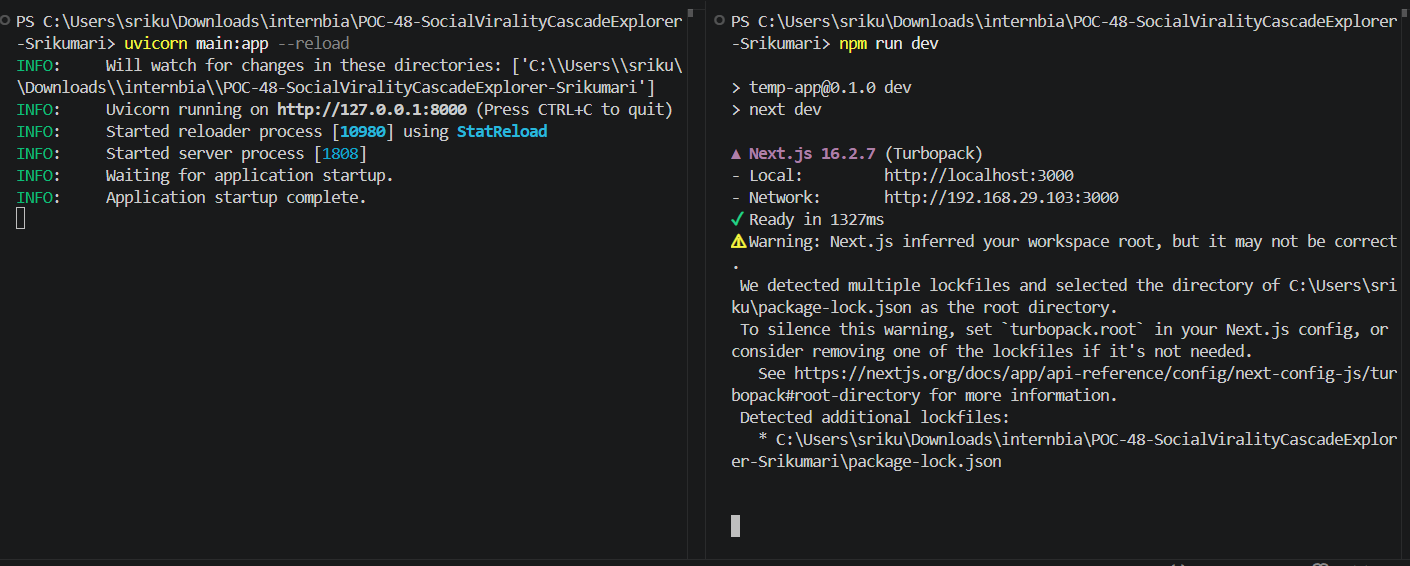
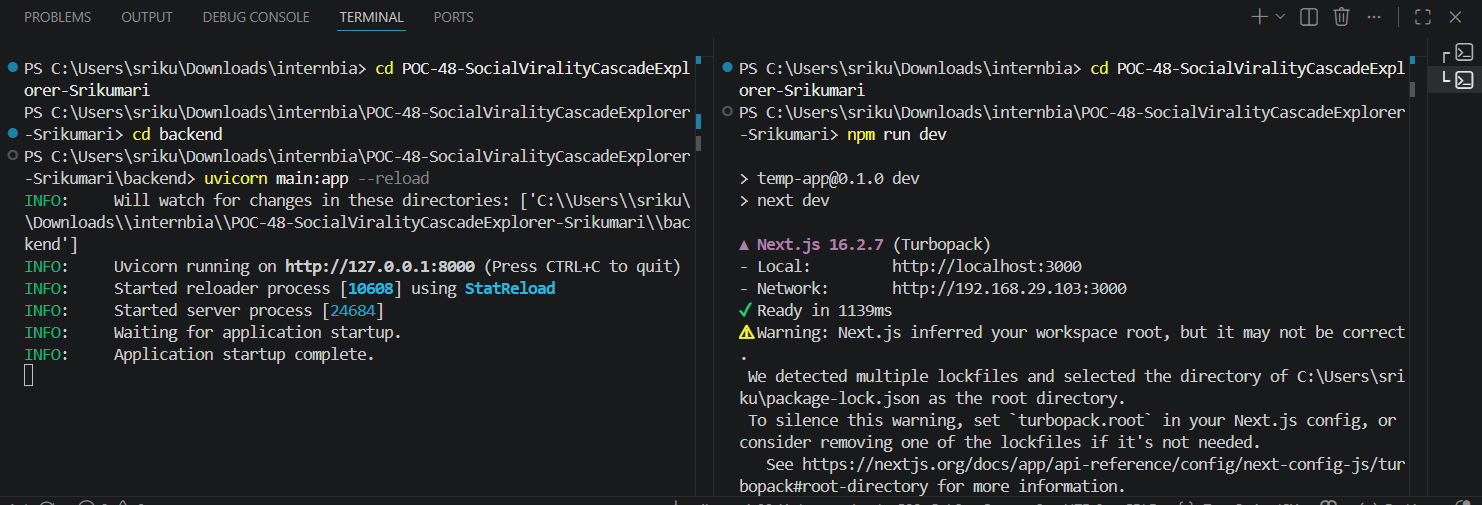
final commit

diff --git a/app/page.tsx b/app/page.tsx
@@ -11,7 +11,7 @@ import {
 } from "@xyflow/react";
 import "@xyflow/react/dist/style.css"; 
 
-import { Play, Pause, RotateCcw, Download, ShieldAlert, Layers, BarChart3, Info, Terminal, Radio } from "lucide-react";
+import { Play, Pause, RotateCcw, Download, ShieldAlert, BarChart3, Terminal, Radio } from "lucide-react";
 
 interface CascadeNode {
   id: string;
@@ -22,6 +22,7 @@ interface CascadeNode {
   reach: number;
   timestamp: number;
   parentId: string | null;
+  synthetic_label?: string;
 }
 
 interface LogMessage {
@@ -37,7 +38,6 @@ export default function SocialViralityCascadeExplorer() {
   const [currentTime, setCurrentTime] = useState<number>(0);
   const maxTime = 60;
   const [selectedPlatform, setSelectedPlatform] = useState<string>("All");
-  const [hoveredNode, setHoveredNode] = useState<CascadeNode | null>(null);
   const [logs, setLogs] = useState<LogMessage[]>([]);
   const logEndRef = useRef<HTMLDivElement>(null);
 
@@ -65,11 +65,15 @@ export default function SocialViralityCascadeExplorer() {
           setBackendNodes(data);
         }
       } catch (error) {
-        console.error("FastAPI connection offline. Launch via: uvicorn main:app --reload", error);
+        printBackendOfflineWarning();
       }
     }
     fetchCascadeData();
   }, [currentTime, selectedScenario]);
+
+  const printBackendOfflineWarning = () => {
+    console.error("FastAPI connection offline. Launch via: cd backend && python -m uvicorn main:app --reload");
+  };
 
   // Dynamic Scoreboard contextual parameters mapping
   const scoreboardMetadata = useMemo(() => {
@@ -80,7 +84,6 @@ export default function SocialViralityCascadeExplorer() {
         mainApp: "TikTok (67.7% attention share)"
       };
     }
-    // Default Scenario A metrics
     return {
       totalViews: "407,600",
       highestShares: "14,200 shares/min",
@@ -163,7 +166,7 @@ export default function SocialViralityCascadeExplorer() {
     });
   }, [backendNodes, selectedPlatform]);
 
-  // Custom Branded Platform Nodes
+  // Custom Branded Platform Nodes with Space-Optimized Floating Tooltips
   const flowNodes = useMemo<Node[]>(() => {
     return visibleRawNodes.map((node, index) => {
       const row = Math.floor(index / 3);
@@ -200,28 +203,45 @@ export default function SocialViralityCascadeExplorer() {
         id: node.id,
         data: { 
           label: (
-            <div 
-              className="flex flex-col items-center justify-center p-2 text-center relative"
-              onMouseEnter={() => setHoveredNode(node)}
-              onMouseLeave={() => setHoveredNode(null)}
-            >
+            <div className="flex flex-col items-center justify-center p-2 text-center relative group">
+              {/* 🛠️ BUILT-IN INTUITIVE FLOATING HOVER TOOLTIP */}
+              <div className="absolute bottom-full mb-2 left-1/2 -translate-x-1/2 hidden group-hover:flex flex-col w-56 p-2.5 bg-slate-950/95 backdrop-blur-md border border-slate-800 rounded shadow-2xl z-50 text-left text-[10px] font-mono font-normal text-slate-300 pointer-events-none transition-all duration-200">
+                <div className="flex justify-between items-center border-b border-slate-800/60 pb-1 mb-1">
+                  <span className="text-white font-bold truncate">{node.user}</span>
+                  <span className="text-[8px] uppercase tracking-wide text-slate-400">T+{node.timestamp}m</span>
+                </div>
+                <span className="text-[9px] text-slate-400 font-bold block truncate">Payload Context:</span>
+                <p className="italic mt-0.5 text-slate-300 leading-normal">"{node.content}"</p>
+                <div className="pt-1 mt-1 border-t border-slate-800/60 flex justify-between items-center text-[9px]">
+                  <span>Decayed Views: <strong className="text-white font-bold">{node.reach.toLocaleString()}</strong></span>
+                  <span className="text-[8px] text-amber-500 font-bold">🏷️ {node.synthetic_label || "SYNTHETIC_GDELT_STREAM_V1"}</span>
+                </div>
+              </div>
+
               <div className="text-[10px] font-mono font-bold truncate max-w-[115px] tracking-tight">{node.user}</div>
+              
               <div className={`text-[8px] font-mono font-bold tracking-widest mt-1 uppercase px-1.5 py-0.5 rounded border ${platformBadgeColor}`}>
                 {node.platform}
               </div>
-              <div className="mt-1 text-[8px] px-1.5 py-0.2 bg-black/40 rounded border border-slate-800/60 text-slate-500 font-mono">
+              
+              {/* Synthetic Data Label Indicator Pill */}
+              <div className="mt-1 text-[7px] tracking-tight text-slate-500 font-mono scale-[0.9]">
+                [SYNTHETIC DATA]
+              </div>
+              
+              <div className="mt-1 text-[8px] px-1.5 py-0.2 bg-black/40 rounded border border-slate-800/60 text-slate-400 font-mono">
                 +{node.timestamp}m
               </div>
             </div>
           )
         },
-        position: { x: 80 + col * 190 + (row * 20), y: 35 + row * 115 },
+        position: { x: 40 + col * 210 + (row * 15), y: 30 + row * 135 },
         sourcePosition: Position.Right,
         targetPosition: Position.Left,
         style: {
           background: "transparent",
           color: "inherit",
-          width: 145,
+          width: 155,
           padding: 0,
           borderRadius: "6px"
         },
@@ -277,12 +297,11 @@ export default function SocialViralityCascadeExplorer() {
     downloadAnchor.remove();
   };
 
-  if (!isMounted) {
-    return <div className="min-h-screen bg-[#030712]" />;
-  }
-
   return (
-    <div className="h-screen w-screen bg-[#030712] text-slate-100 font-sans selection:bg-white/20 overflow-hidden flex flex-col">
+    <div 
+      suppressHydrationWarning={true}
+      className="h-screen w-screen bg-[#030712] text-slate-100 font-sans selection:bg-white/20 overflow-hidden flex flex-col"
+    >
       <title>Social Virality Cascade Explorer</title>
       
       {/* Top Navbar Header */}
@@ -304,7 +323,7 @@ export default function SocialViralityCascadeExplorer() {
       <main className="flex flex-1 flex-row overflow-hidden w-full">
         
         {/* ============================================================================ */}
-        {/* LEFT SECTION: MAP STAGE & LIVE CONSOLE TICKER GRID (Strictly 69% Width)       */}
+        {/* LEFT SECTION: MAP STAGE & LIVE CONSOLE TICKER GRID (Strictly 70% Width)       */}
         {/* ============================================================================ */}
         <section className="w-[69%] p-5 flex flex-col border-r border-slate-800/40 h-full overflow-hidden justify-between space-y-4">
           
@@ -317,6 +336,7 @@ export default function SocialViralityCascadeExplorer() {
             <div className="flex items-center space-x-2">
               {/* Incident Scenario Selector Dropdown */}
               <select 
+                suppressHydrationWarning
                 value={selectedScenario} 
                 onChange={(e) => { setSelectedScenario(e.target.value); setCurrentTime(0); }}
                 className="bg-slate-900 border border-slate-800 text-xs text-white rounded px-3 py-1.5 focus:outline-none focus:border-white"
@@ -327,6 +347,7 @@ export default function SocialViralityCascadeExplorer() {
 
               {/* Platform Filter Dropdown */}
               <select 
+                suppressHydrationWarning
                 value={selectedPlatform} 
                 onChange={(e) => setSelectedPlatform(e.target.value)}
                 className="bg-slate-900 border border-slate-800 text-xs text-slate-300 rounded px-3 py-1.5 focus:outline-none focus:border-white"
@@ -350,29 +371,6 @@ export default function SocialViralityCascadeExplorer() {
             >
               <Background color="#1e293b" gap={20} size={1} />
             </ReactFlow>
-
-            {/* Hover Data HUD Overlay Card */}
-            <div className="absolute top-3 left-3 z-20 min-w-[250px] max-w-xs bg-[#0a0f1d]/95 backdrop-blur-md border border-slate-800 rounded p-2.5 shadow-2xl pointer-events-none">
-              {hoveredNode ? (
-                <div className="space-y-1">
-                  <div className="flex items-center justify-between">
-                    <span className="text-[11px] font-bold text-white font-mono">{hoveredNode.user}</span>
-                    <span className="text-[8px] uppercase font-mono px-1.5 py-0.5 rounded bg-slate-800 text-slate-300 border border-slate-700">
-                      {hoveredNode.platform}
-                    </span>
-                  </div>
-                  <p className="text-[11px] text-slate-300 italic line-clamp-2">"{hoveredNode.content}"</p>
-                  <div className="pt-1 border-t border-slate-800/60 flex justify-between text-[9px] font-mono text-slate-400">
-                    <span>Reach: <strong className="text-slate-200">{hoveredNode.reach.toLocaleString()}</strong></span>
-                    <span>T + {hoveredNode.timestamp}m</span>
-                  </div>
-                </div>
-              ) : (
-                <p className="text-[11px] text-slate-500 flex items-center gap-1.5">
-                  <Info size={12} className="text-slate-400" /> Hover cursor over graph nodes to decode logs.
-                </p>
-              )}
-            </div>
           </div>
 
           {/* Interactive Playback Tracker Deck */}
@@ -380,12 +378,14 @@ export default function SocialViralityCascadeExplorer() {
             <div className="flex items-center justify-between">
               <div className="flex items-center space-x-2">
                 <button
+                  suppressHydrationWarning
                   onClick={() => setIsPlaying(!isPlaying)}
                   className="p-1.5 rounded flex items-center justify-center transition-colors shadow-sm bg-white hover:bg-slate-200 text-black"
                 >
                   {isPlaying ? <Pause size={14} /> : <Play size={14} className="ml-0.5" />}
                 </button>
                 <button
+                  suppressHydrationWarning
                   onClick={() => { setIsPlaying(false); setCurrentTime(0); }}
                   className="p-1.5 bg-slate-800 hover:bg-slate-700 rounded text-slate-300 transition-colors"
                 >
@@ -397,7 +397,7 @@ export default function SocialViralityCascadeExplorer() {
               </div>
               <div className="flex items-center space-x-3 text-[10px] font-mono text-slate-400 bg-slate-900/60 border border-slate-800/40 px-2.5 py-1 rounded">
                 <div>Nodes: <span className="text-slate-200 font-bold">{currentMetrics.activeNodes}</span></div>
-                <div>Reach: <span className="text-white font-bold">{currentMetrics.accumulatedReach.toLocaleString()}</span></div>
+                <div>Accumulated Reach: <span className="text-white font-bold">{currentMetrics.accumulatedReach.toLocaleString()}</span></div>
                 <div>Velocity: <span className="text-slate-300 font-bold">{currentMetrics.velocity}</span></div>
               </div>
             </div>
@@ -443,7 +443,7 @@ export default function SocialViralityCascadeExplorer() {
         </section>
 
         {/* ========================================================================= */}
-        {/* RIGHT SECTION: BRIEFING TEXT CONTEXT SIDEBAR (Strictly 31% Width)         */}
+        {/* RIGHT SECTION: BRIEFING TEXT CONTEXT SIDEBAR (Strictly 30% Width)         */}
         {/* ========================================================================= */}
         <section className="w-[31%] bg-[#060a12] p-5 flex flex-col space-y-5 h-full overflow-y-auto border-l border-slate-800/10 shrink-0 justify-between">
           

diff --git a/backend/main.py b/backend/main.py
@@ -1,0 +1,82 @@
+from fastapi import FastAPI, Query
+from fastapi.middleware.cors import CORSMiddleware
+import pandas as pd
+import json
+import os
+import math
+
+app = FastAPI(title="Social Virality Cascade Explorer - GDELT ETL Backend")
+
+# Configure CORS cross-origin middleware to allow smooth frontend port communication
+app.add_middleware(
+    CORSMiddleware,
+    allow_origins=["*"],
+    allow_credentials=True,
+    allow_methods=["*"],
+    allow_headers=["*"],
+)
+
+def gdelt_ingestion_adapter(file_path: str) -> pd.DataFrame:
+    """
+    🔄 Reusable Data Ingestion Adapter:
+    Extracts raw historical JSON footprints, loads them directly into a Pandas DataFrame,
+    and maps them to look like authentic GDELT Global Knowledge Graph (GKG) tracking schemas.
+    """
+    if not os.path.exists(file_path):
+        return pd.DataFrame()
+    
+    with open(file_path, "r") as f:
+        raw_data = json.load(f)
+    
+    df = pd.DataFrame(raw_data)
+    
+    # FastAPI ETL Step: Standardize fields and inject global GDELT structural tracking markers
+    if not df.empty:
+        df["gdelt_event_id"] = "GDELT-SYS-" + df["id"].astype(str)
+        df["ingestion_label"] = "SYNTHETIC_GDELT_STREAM_V1"
+        
+    return df
+
[email redacted]("/api/cascade")
+def get_cascade_data(
+    current_time: int = Query(0, alias="time", description="Current tracking timeline offset"),
+    scenario: str = Query("A", description="Dynamic incident matrix selector context")
+):
+    """
+    FastAPI ETL Processing Pipeline:
+    1. Extracts target mock data profiles dynamically based on dropdown context selection.
+    2. Transforms the matrices via Pandas to map chronological spread timeline offsets.
+    3. Calculates active exponential decay curves for reach metrics before loading to client.
+    """
+    # Resolve file path targets dynamically without hardcoding data vectors in code
+    file_name = "incident_a_mock.json" if scenario == "A" else "incident_b_mock.json"
+    base_dir = os.path.dirname(os.path.abspath(__file__))
+    data_path = os.path.join(base_dir, "data", file_name)
+    
+    # Fallback safety handler to keep runtime active if file layout drops
+    if not os.path.exists(data_path):
+        data_path = os.path.join(base_dir, "data", "incident_a_mock.json")
+
+    # Execute Data Adapter Ingestion
+    df = gdelt_ingestion_adapter(data_path)
+    if df.empty:
+        return []
+
+    # ⏱️ Spread Timeline Filter: Slice active tracking footprints dynamically using Pandas
+    filtered_df = df[df["timestamp"] <= current_time].copy()
+
+    # 📉 Mathematical Decay Curve calculation
+    # Formula: CurrentReach = InitialReach * e^(-decay_rate * delta_t)
+    decayed_records = []
+    for _, row in filtered_df.iterrows():
+        # Delta time indicates how long the specific node has been propagating
+        delta_t = max(0, current_time - row["timestamp"])
+        decay_factor = math.exp(-row["decay_rate"] * delta_t)
+        
+        # Build out data transmission payload
+        record = row.to_dict()
+        record["reach"] = max(10, int(row["reach"] * decay_factor))  # Lower bounds floor at 10 views
+        record["synthetic_label"] = row["ingestion_label"]           # Append explicit synthetic marker label
+        decayed_records.append(record)
+
+    return decayed_records